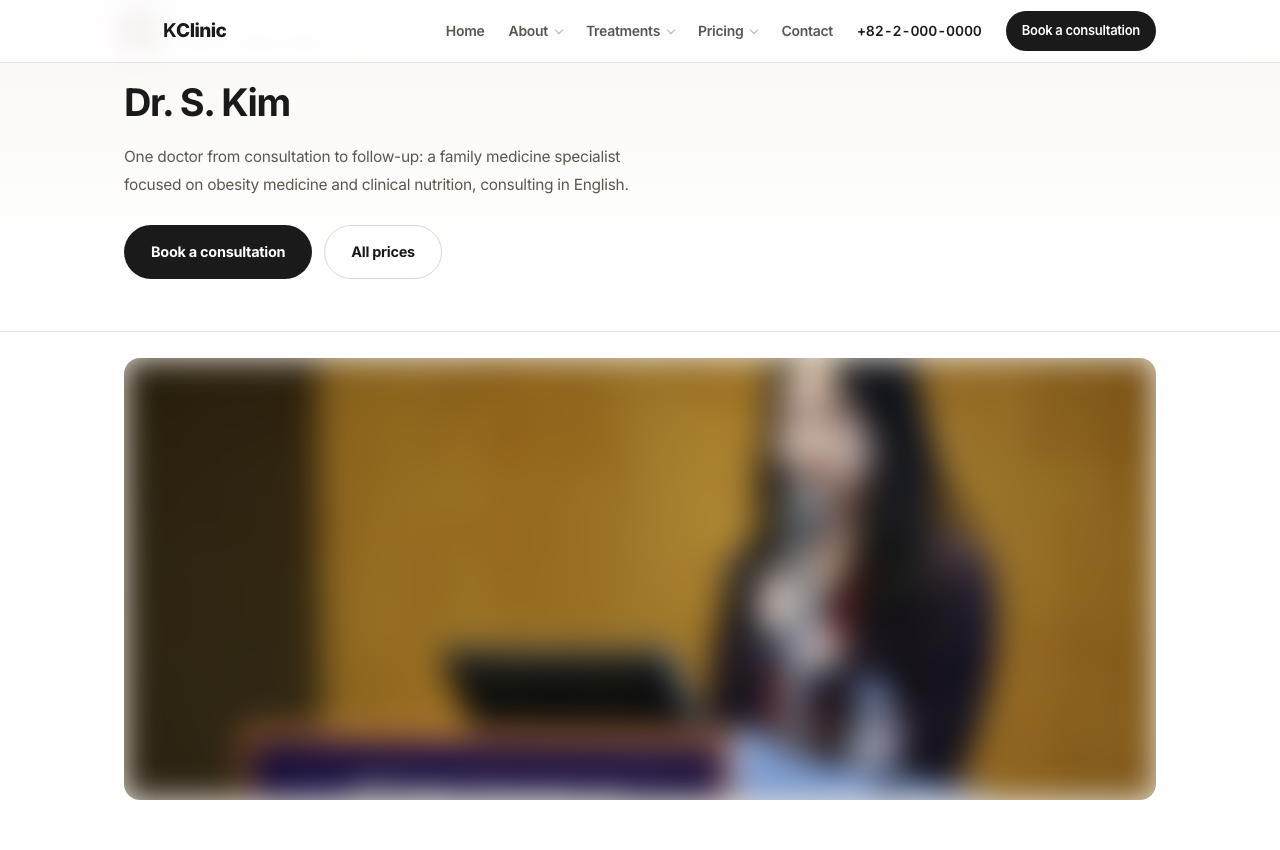
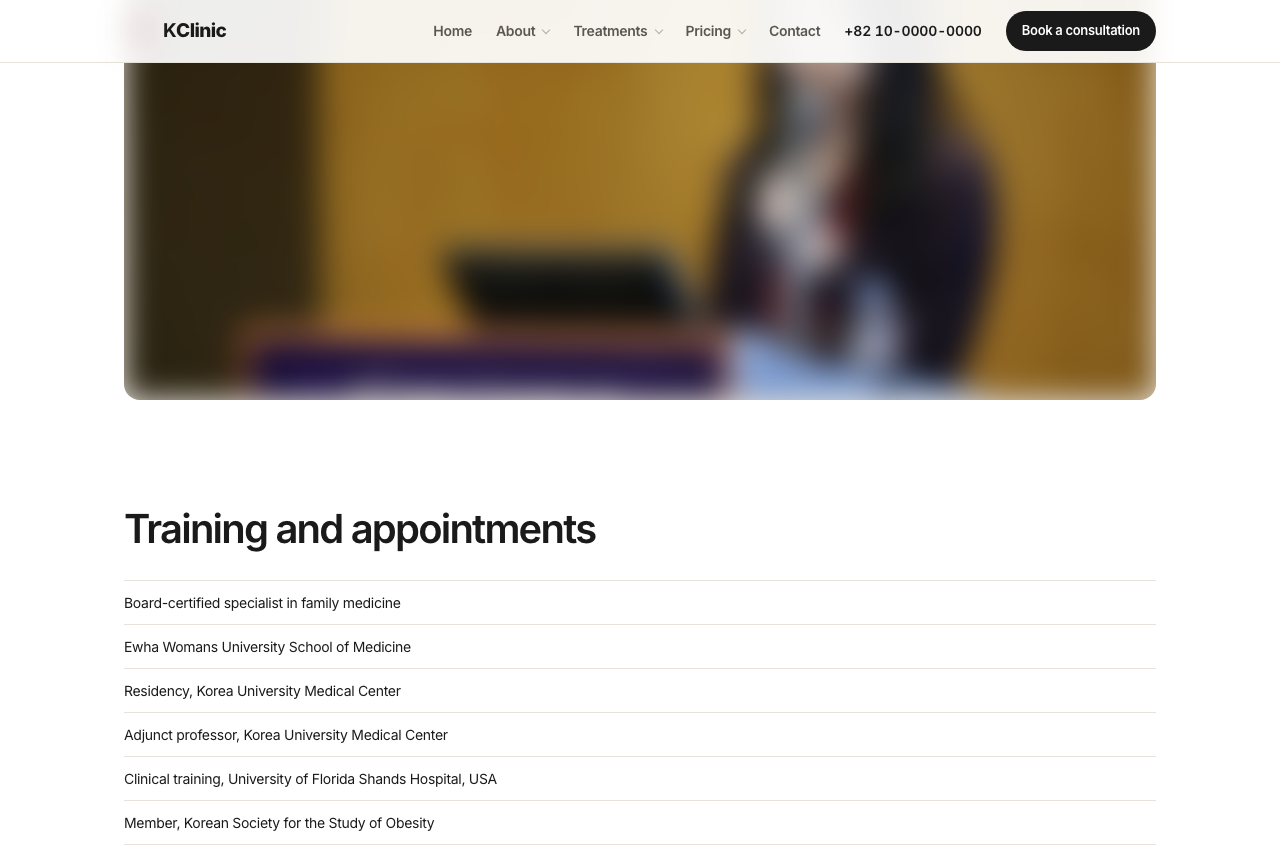
원장 인터뷰 칼럼 슬라이드 신설 · 프로필 캡처 · 제목 정비 (95장)
- 더마칼럼 실게재 인터뷰('피부만 보지 않는 이유 · 진료 철학')
  캡처(실명 · 사진 · 지역 가림) 슬라이드 신설: 인터뷰 주제로
  원장의 기준을 칼럼화, 프로필 ↔ 인터뷰 ↔ 칼럼 연결
- 원장 프로필 캡처를 경력 텍스트 구간으로 재촬영(전화번호 마스킹
  보강)
- '그 진료실에 원장이 없는 경우' → '예약 전 진료실에 원장이
  보이려면'
- 검수 표 2장 → '원장이 보이는 글로 바꾸려면 ① ②', 표 글씨
  17.5px로 확대

diff --git a/index.html b/index.html
@@ -1412,9 +1412,27 @@
     </div>
   </section>
 
+  <section class="slide content">
+    <span class="eyebrow accent">인터뷰 칼럼</span>
+    <h2>인터뷰 주제로 만드는 원장 칼럼</h2>
+    <p class="rsub">경력 나열과 별개로, 인터뷰가 원장의 기준을 문장으로 남깁니다 · 실제 게재 화면 · 사진 · 병원명 가림</p>
+    <div class="ev side">
+      <div class="evshot"><div class="eh"><b>진료 철학 인터뷰</b> · "피부만 보지 않는 이유"<span class="src">dermacolumn.com</span></div>
+        <figure><img src="assets/work/derma-interview.png" alt="원장 인터뷰 칼럼" /></figure></div>
+      <div>
+        <ul class="wlist">
+          <li>주제 : <b>진료 철학 · 치료를 나누는 기준 · 권하지 않는 경우</b></li>
+          <li>편집팀 취재 표기 · <b>원장 직접 칼럼과 링크로 연결</b></li>
+          <li>논문 · 학회 · 방송 이력이 본문에서 자연스럽게 언급</li>
+          <li>프로필 페이지 ↔ 인터뷰 ↔ 칼럼이 서로 연결</li>
+        </ul>
+      </div>
+    </div>
+  </section>
+
   <section class="slide content tint">
     <span class="eyebrow accent">같은 주제, 두 글</span>
-    <h2>그 진료실에 원장이 없는 경우</h2>
+    <h2>예약 전 진료실에 원장이 보이려면</h2>
     <p class="rsub">프로필 다음은 글 · 글에도 원장이 보여야 합니다</p>
     <div class="cmp">
       <div class="col bad"><div class="h">평범한 대행 원고</div><div style="display:flex;gap:8px;align-items:center;margin-top:10px"><svg viewBox="0 0 24 24" style="width:21px;height:21px;fill:none;stroke:#8a919c;stroke-width:1.7;stroke-linecap:round;stroke-linejoin:round"><path d="M6 3h9l4 4v14H6zM14 3v5h5"/></svg><span style="font-size:12px;color:#8a919c">어느 병원이든 같은 글</span></div>
@@ -1436,7 +1454,7 @@
 
   <section class="slide content tint">
     <span class="eyebrow accent">원장의 문장 · 1</span>
-    <h2>대행 원고 검수 항목 ①</h2>
+    <h2>원장이 보이는 글로 바꾸려면 ①</h2>
     <div class="doc">
       <table class="ptable" style="font-size:15px">
         <tr><th style="width:32%">항목</th><th>글에 들어가는 형태</th></tr>
@@ -1450,7 +1468,7 @@
 
   <section class="slide content tint">
     <span class="eyebrow accent">원장의 문장 · 2</span>
-    <h2>대행 원고 검수 항목 ②</h2>
+    <h2>원장이 보이는 글로 바꾸려면 ②</h2>
     <div class="doc">
       <table class="ptable" style="font-size:15px">
         <tr><th style="width:32%">항목</th><th>글에 들어가는 형태</th></tr>
